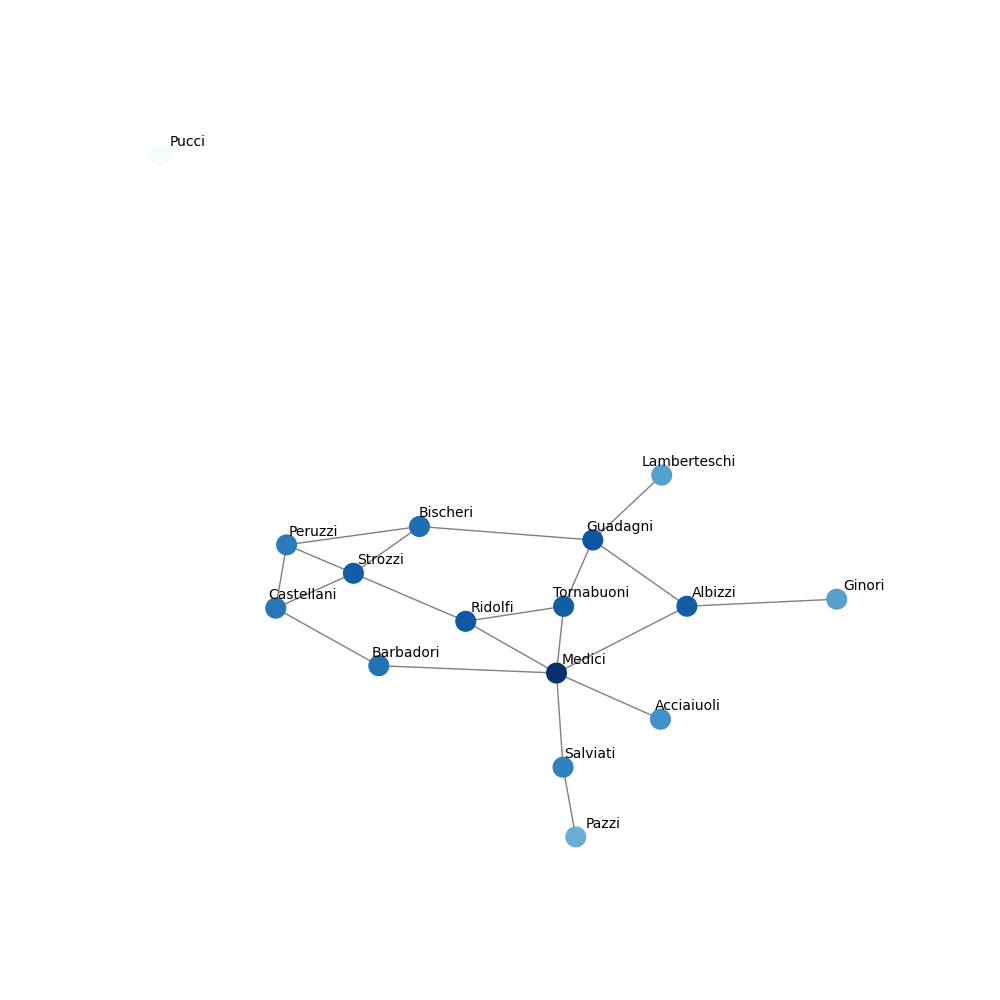
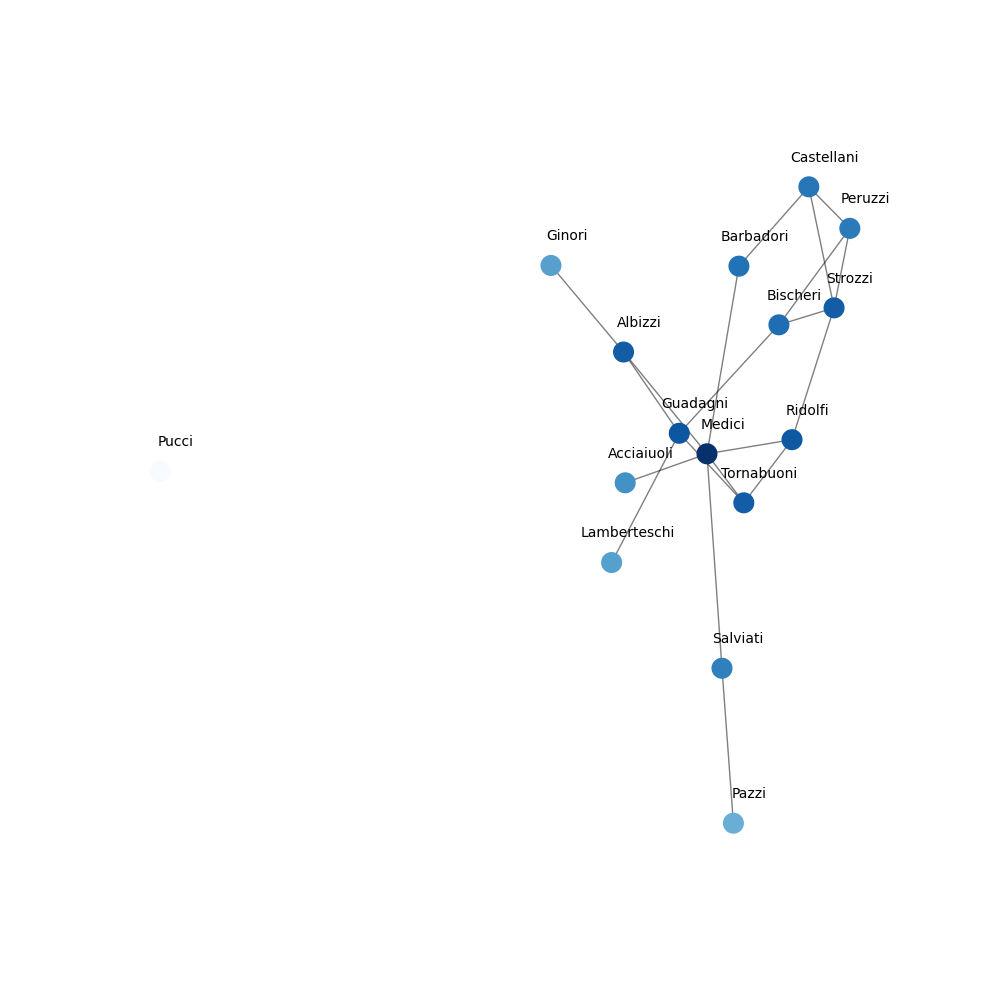
padgeett graph

diff --git a/p2test.py b/p2test.py
@@ -4,45 +4,69 @@ import ast
 import urllib.request
 import zipfile
 import matplotlib.pyplot as plt
+import random
+import numpy as np
 
-url = 'http://aaronclauset.github.io/data/MediciNetwork.zip'
-filename = 'MediciNetwork.zip'
+edges = pd.read_csv('padgett/edges.csv')
+nodes = pd.read_csv('padgett/nodes.csv')
+G = nx.from_pandas_edgelist(edges, source='source', target='target', edge_attr=True)
 
-# Download the file
-urllib.request.urlretrieve(url, filename)
+mapping = {0:'ACCIAIUOL', 1:'ALBIZZI', 2:'BARBADORI', 3:'BISCHERI', 4:'CASTELLAN', 5:'GINORI', 6:'GUADAGNI', 7:'LAMBERTES', 8:'MEDICI', 9:'PAZZI', 10:'PERUZZI', 11:'PUCCI', 12:'RIDOLFI', 13:'SALVIATI', 14:'STROZZI', 15:'TORNABUON'}
+G = nx.relabel_nodes(G, mapping)
+G.add_node('PUCCI')
+nx.draw(G, with_labels=True)
 
-# Extract the contents of the zip file
-with zipfile.ZipFile(filename, 'r') as zip_ref:
-    zip_ref.extractall('.')
+hc = nx.harmonic_centrality(G)
+hc  = {key: value / 14 for key, value in hc.items()}
+sorted(hc.items(), key=lambda x: x[1], reverse=True)
 
-file_name = 'Medici network/medici_network.txt'
+def initialize(degree_seq):
+    return nx.havel_hakimi_graph(degree_seq)
 
-edges=[]
-nodes =[]
-with open(file_name, 'r') as file:
-    for line in file:
-        node = int(line.split(' ')[0])
-        node_name = line.split(' ')[1].strip(',')
-        nodes.append((node,node_name))
-        l_ = line.split('[')[1]
-        l_ = l_[1:-2].replace(', ', ',').strip().split(' ')
-        for i in l_:
-            if i != '':
-                i = i.strip('(').strip(')').split(',')[0]
-                edges.append((node,int(i)))
+def pick_double_swap(G):
+    edges = list(G.edges())
 
-g = nx.Graph()
-for node in nodes:
-    g.add_node(node[0], label=node[1])
-for edge in edges:
-    g.add_edge(edge[0], edge[1])
+    edge1, edge2 = random.sample(edges, 2)  
 
-pos = nx.spring_layout(g, k=0.15, iterations=50)
-nx.draw(g, pos, with_labels=True, font_size=10, node_size=200, alpha=0.7, width=1, edge_color='grey', node_color='lightblue')
-labels = nx.get_node_attributes(g,'label')
-nx.draw_networkx_labels(g, pos, labels, font_size=8, font_weight='bold', alpha=0.8, bbox=dict(facecolor='white', edgecolor='none', boxstyle='round, pad=0.3'))
-edge_labels = nx.get_edge_attributes(g, 'weight')
-nx.draw_networkx_edge_labels(g, pos, edge_labels, font_size=8, label_pos=0.5, font_color='grey', alpha=0.8)
+    if len(set(edge1) & set(edge2)) > 0:
+        edge1, edge2 = random.sample(edges, 2)
 
-plt.tight_layout()
+    old_edges = [edge1, edge2]
+
+    swap_edge1 = sorted((edge1[0], edge2[1]))
+    swap_edge2 = sorted((edge1[1], edge2[0]))
+
+    swap_edges = [(swap_edge1[0], swap_edge1[1]), (swap_edge2[0], swap_edge2[1])]
+    return old_edges, swap_edges
+    
+def apply_swap(G, old_edges, swap_edges):
+    if set(swap_edges).isdisjoint(G.edges()):
+        G.remove_edges_from(old_edges)
+        G.add_edges_from(swap_edges)
+
+def MCMC(degree_seq):
+    G = initialize(degree_seq)
+    for _ in range(100):
+        swap_edges, new_edges = pick_double_swap(G)
+        apply_swap(G, swap_edges, new_edges)
+    return G
+
+degree_sequence = np.array([d for n, d in G.degree()])
+mapping = {'ACCIAIUOL': 0, 'ALBIZZI': 1, 'BARBADORI': 2, 'BISCHERI': 3, 'CASTELLAN': 4, 'GINORI': 5, 'GUADAGNI': 6, 'LAMBERTES': 7, 'MEDICI': 8, 'PAZZI': 9, 'PERUZZI': 10, 'PUCCI': 11, 'RIDOLFI': 12, 'SALVIATI': 13, 'STROZZI': 14, 'TORNABUON': 15}
+all_hcs = []
+for i in range(1000):
+    temp_G = MCMC(degree_sequence)
+    hcs = nx.harmonic_centrality(temp_G, mapping)
+
+    hcs  = {key: (value / 14) for key, value in hc.items()}
+
+    all_hcs.append(hcs)
+family_centrality_dists = {family:[] for family in mapping.values()}
+for hc in all_hcs:
+    for family, val in hc.items():
+        family_centrality_dists[family].append(val)
+
+fig, ax = plt.subplots()
+ax.boxplot(family_centrality_dists.values())
+ax.set_xticklabels(family_centrality_dists.keys())
 plt.show()

diff --git a/problem_2.py b/problem_2.py
@@ -4,6 +4,8 @@ import ast
 import urllib.request
 import zipfile
 import matplotlib.pyplot as plt
+import random
+import numpy as np
 
 url = 'http://aaronclauset.github.io/data/MediciNetwork.zip'
 filename = 'MediciNetwork.zip'
@@ -55,3 +57,57 @@ nx.draw_networkx_labels(g, label_pos, labels=nx.get_node_attributes(g, 'label'),
 plt.axis('off')
 plt.savefig('HHHHmedici_network.png')
 plt.show()
+
+import numpy as np
+import matplotlib.pyplot as plt
+
+def harmonic_centrality_boxplots(graph):
+    # Calculate degree sequence of the graph
+    degree_sequence = sorted([d for n, d in graph.degree()], reverse=True)
+
+    # Generate null model graphs with same degree sequence
+    null_graphs = []
+    for i in range(1000):
+        null_graph = nx.configuration_model(degree_sequence)
+        null_graph = nx.Graph(null_graph)  # Remove parallel edges and self-loops
+        null_graphs.append(null_graph)
+
+    # Calculate harmonic centrality for each node in each null graph
+    null_centralities = {}
+    for null_graph in null_graphs:
+        null_centrality = nx.harmonic_centrality(null_graph, distance=None)
+        for node, value in null_centrality.items():
+            if value == float('inf'):
+                null_centrality[node] = 0
+        for node, centrality in null_centrality.items():
+            if node not in null_centralities:
+                null_centralities[node] = [centrality]
+            else:
+                null_centralities[node].append(centrality)
+
+    # Calculate harmonic centrality for each node in the original graph
+    centrality = nx.harmonic_centrality(graph, distance=None)
+    for node, value in centrality.items():
+        if value == float('inf'):
+            centrality[node] = 0
+
+    # Create boxplots for each family
+    families = set(nx.get_node_attributes(graph, 'name').values())
+    fig, axs = plt.subplots(len(families), figsize=(10, 20), sharey=True)
+    for i, family in enumerate(families):
+        family_nodes = [node for node, name in nx.get_node_attributes(graph, 'name').items() if name == family]
+        data = [null_centralities[node] for node in family_nodes]
+        data.append([centrality[node] for node in family_nodes])
+        labels = ['Null'] * len(family_nodes) + ['Original']
+        axs[i].boxplot(data, labels=labels)
+        axs[i].set_title(family)
+        axs[i].set_ylabel('Harmonic Centrality')
+        axs[i].axhline(y=np.mean(data[-1]), color='r', linestyle='-')
+        axs[i].axhline(y=np.percentile(data[-1], 25), color='g', linestyle='--')
+        axs[i].axhline(y=np.percentile(data[-1], 75), color='g', linestyle='--')
+    plt.tight_layout()
+    plt.show()
+
+
+print(g.nodes)
+harmonic_centrality_boxplots(g)
